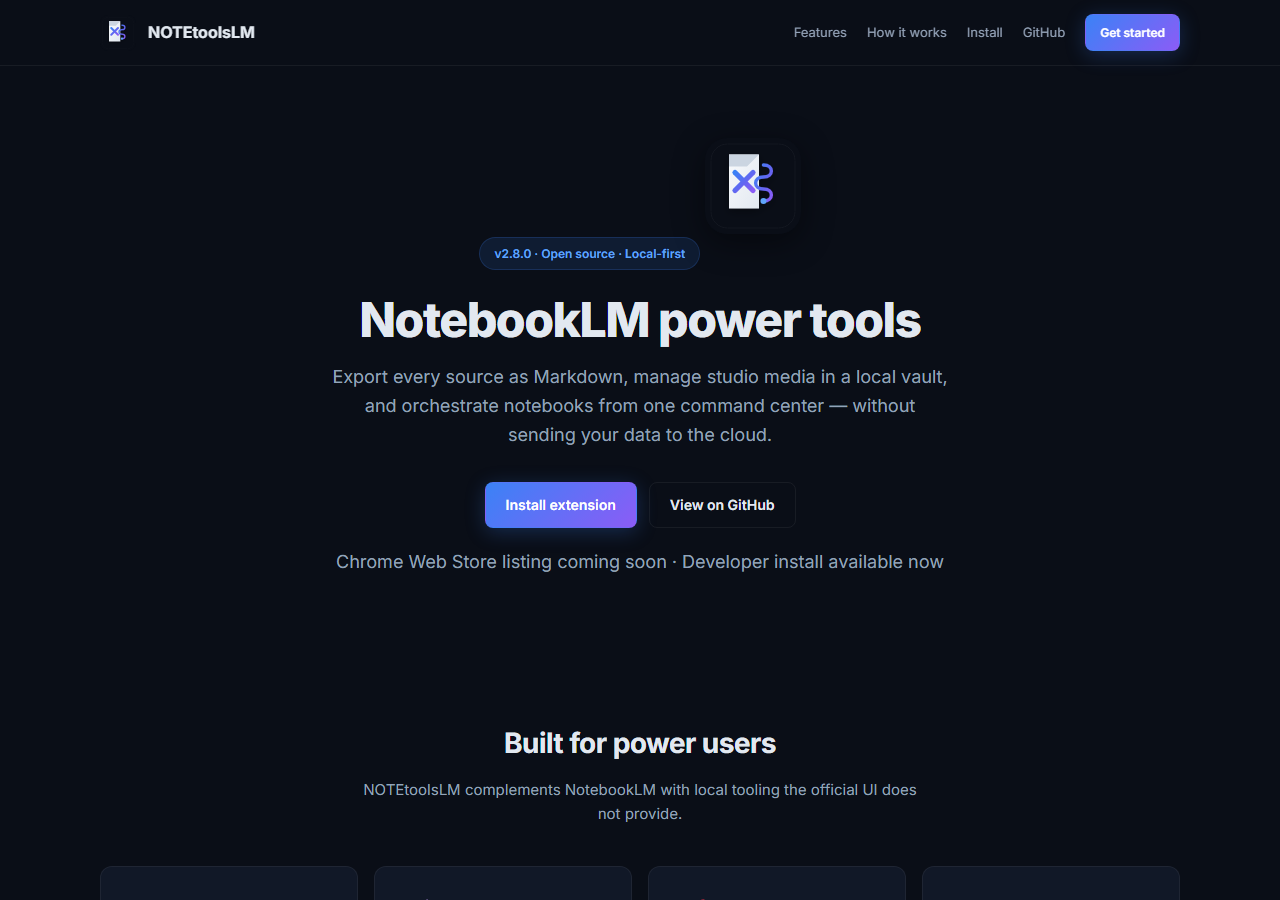
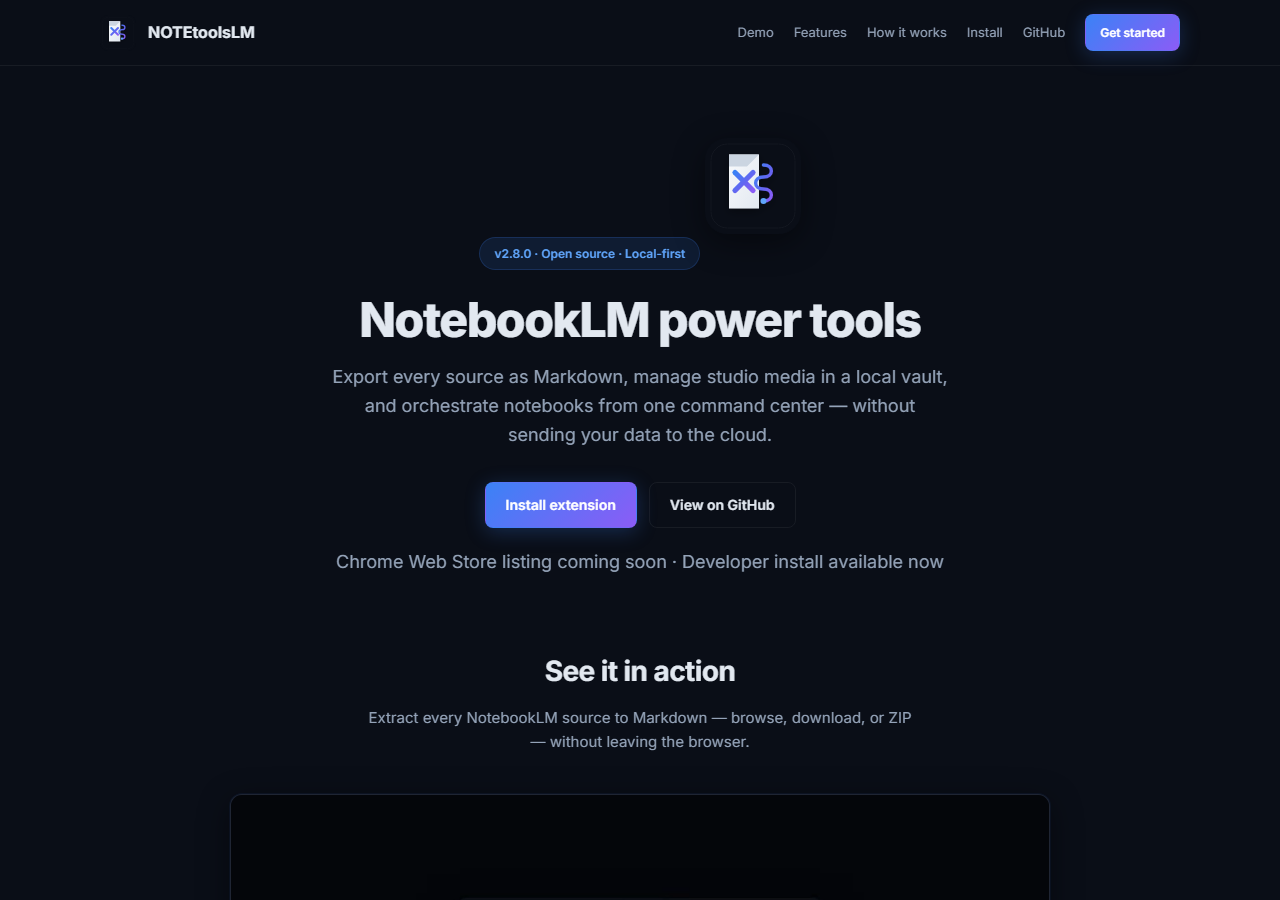
feat(docs): add demo GIF to launch page and capture pipeline
Wire animated Sources export demo (GIF + WebM) into the GitHub Pages hero, refresh launch screenshots, and add npm scripts to regenerate assets via Playwright and ffmpeg.

diff --git a/scripts/capture-demo-gif.js b/scripts/capture-demo-gif.js
@@ -1,0 +1,90 @@
+/**
+ * Record an animated sources-export demo and export docs/assets/demo.gif (+ demo.webm)
+ */
+const fs = require('fs');
+const path = require('path');
+const { execSync } = require('child_process');
+const { chromium } = require('playwright');
+
+const ROOT = path.join(__dirname, '..');
+const DEMO_HTML = path.join(ROOT, 'docs', 'assets', 'screenshots', 'sources-demo.html');
+const ASSETS = path.join(ROOT, 'docs', 'assets');
+const TMP = path.join(ROOT, 'tmp', 'demo-capture');
+const VIEWPORT = { width: 800, height: 520 };
+const FPS = 12;
+const FRAMES = 120;
+const FRAME_MS = 1000 / FPS;
+
+async function captureFrames(page) {
+  const framesDir = path.join(TMP, 'frames');
+  fs.mkdirSync(framesDir, { recursive: true });
+  for (let i = 0; i < FRAMES; i++) {
+    await page.evaluate((tick) => window.__demoTick(tick), i);
+    await page.waitForTimeout(FRAME_MS);
+    const framePath = path.join(framesDir, `frame-${String(i).padStart(4, '0')}.png`);
+    await page.screenshot({ path: framePath, type: 'png' });
+  }
+  return framesDir;
+}
+
+function exportFromFrames(framesDir, outFile, extraArgs) {
+  const pattern = path.join(framesDir, 'frame-%04d.png').replace(/\\/g, '/');
+  const outPath = outFile.replace(/\\/g, '/');
+  execSync(
+    `ffmpeg -y -framerate ${FPS} -i "${pattern}" ${extraArgs} "${outPath}"`,
+    { stdio: 'inherit' }
+  );
+}
+
+function framesToGif(framesDir, outGif) {
+  const palette = path.join(TMP, 'palette.png');
+  const pattern = path.join(framesDir, 'frame-%04d.png').replace(/\\/g, '/');
+  const palettePath = palette.replace(/\\/g, '/');
+  const outPath = outGif.replace(/\\/g, '/');
+
+  execSync(
+    `ffmpeg -y -framerate ${FPS} -i "${pattern}" -vf "fps=${FPS},scale=800:-1:flags=lanczos,palettegen=stats_mode=diff" "${palettePath}"`,
+    { stdio: 'inherit' }
+  );
+  execSync(
+    `ffmpeg -y -framerate ${FPS} -i "${pattern}" -i "${palettePath}" -lavfi "fps=${FPS},scale=800:-1:flags=lanczos[x];[x][1:v]paletteuse=dither=bayer:bayer_scale=3" -loop 0 "${outPath}"`,
+    { stdio: 'inherit' }
+  );
+}
+
+async function main() {
+  fs.mkdirSync(ASSETS, { recursive: true });
+  fs.rmSync(TMP, { recursive: true, force: true });
+  fs.mkdirSync(TMP, { recursive: true });
+
+  const browser = await chromium.launch();
+  const context = await browser.newContext({ viewport: VIEWPORT });
+  const page = await context.newPage();
+  const url = `file:///${DEMO_HTML.replace(/\\/g, '/')}`;
+  await page.goto(url, { waitUntil: 'networkidle' });
+  await page.waitForTimeout(300);
+
+  const framesDir = await captureFrames(page);
+  await browser.close();
+
+  const gifPath = path.join(ASSETS, 'demo.gif');
+  framesToGif(framesDir, gifPath);
+  const stat = fs.statSync(gifPath);
+  console.log('wrote', gifPath, `(${(stat.size / 1024 / 1024).toFixed(2)} MB)`);
+
+  const webmPath = path.join(ASSETS, 'demo.webm');
+  exportFromFrames(
+    framesDir,
+    webmPath,
+    '-c:v libvpx-vp9 -pix_fmt yuv420p -crf 32 -b:v 0 -an'
+  );
+  const webmStat = fs.statSync(webmPath);
+  console.log('wrote', webmPath, `(${(webmStat.size / 1024 / 1024).toFixed(2)} MB)`);
+
+  fs.rmSync(TMP, { recursive: true, force: true });
+}
+
+main().catch((err) => {
+  console.error(err);
+  process.exit(1);
+});

diff --git a/docs/assets/screenshots/sources-demo.html b/docs/assets/screenshots/sources-demo.html
@@ -4,41 +4,99 @@
 <meta charset="UTF-8">
 <link href="https://fonts.googleapis.com/css2?family=Inter:wght@400;600;700&display=swap" rel="stylesheet">
 <style>
-body{margin:0;background:#0a0e17;font-family:Inter,system-ui,sans-serif;color:#e2e8f0;display:flex;justify-content:center;padding:40px}
+body{margin:0;background:#0a0e17;font-family:Inter,system-ui,sans-serif;color:#e2e8f0;display:flex;justify-content:center;align-items:center;min-height:100vh}
 .panel{width:360px;background:#111827;border:1px solid rgba(255,255,255,.08);border-radius:12px;overflow:hidden;box-shadow:0 8px 32px rgba(0,0,0,.5)}
 .hdr{display:flex;justify-content:space-between;align-items:center;padding:12px;border-bottom:1px solid rgba(255,255,255,.06);background:#0f172a}
 .brand{font-weight:700;font-size:13px}
 .tabs{display:flex;gap:4px;padding:8px 12px 0}
-.tab{flex:1;padding:7px;border:1px solid rgba(255,255,255,.06);border-bottom:none;border-radius:8px 8px 0 0;background:#0a0e17;color:#64748b;font-size:11px;font-weight:600;text-align:center}
+.tab{flex:1;padding:7px;border:1px solid rgba(255,255,255,.06);border-bottom:none;border-radius:8px 8px 0 0;background:#0a0e17;color:#64748b;font-size:11px;font-weight:600;text-align:center;transition:background .2s,color .2s}
 .tab.on{background:#111827;color:#e2e8f0}
 .actions{display:flex;gap:8px;padding:12px}
 .btn{padding:8px 12px;border-radius:8px;border:none;font-size:11px;font-weight:600;cursor:default}
 .btn-p{background:#3b82f6;color:#fff}
 .btn-g{background:transparent;color:#94a3b8;border:1px solid rgba(255,255,255,.08)}
-.card{margin:0 12px 8px;padding:10px 12px;border-radius:8px;border:1px solid rgba(255,255,255,.06);background:#1a2236}
+.card{margin:0 12px 8px;padding:10px 12px;border-radius:8px;border:1px solid rgba(255,255,255,.06);background:#1a2236;opacity:1;transition:opacity .3s}
+.card.dim{opacity:.45}
 .card h4{margin:0 0 4px;font-size:12px}
 .card p{margin:0;font-size:10px;color:#64748b}
-.overlay{position:fixed;inset:0;background:rgba(0,0,0,.55);display:flex;align-items:center;justify-content:center}
+.overlay{position:fixed;inset:0;background:rgba(0,0,0,.55);display:flex;align-items:center;justify-content:center;opacity:0;pointer-events:none;transition:opacity .35s}
+.overlay.show{opacity:1}
 .box{background:#0f172a;border:1px solid rgba(255,255,255,.1);border-radius:12px;padding:24px;width:280px;text-align:center}
 .bar{height:6px;background:#1e293b;border-radius:3px;margin:16px 0;overflow:hidden}
-.fill{height:100%;width:62%;background:#3b82f6;border-radius:3px}
+.fill{height:100%;width:0;background:linear-gradient(90deg,#3b82f6,#8b5cf6);border-radius:3px;transition:width .12s linear}
+.status{font-size:12px;color:#94a3b8;min-height:18px}
+.done{color:#10b981;font-weight:600}
 </style>
 </head>
 <body>
 <div class="panel">
   <div class="hdr"><span class="brand">⚡ NOTEtoolsLM</span><span style="font-size:10px;color:#64748b">SDK connected</span></div>
-  <div class="tabs"><div class="tab">Artifacts</div><div class="tab on">Sources</div></div>
-  <div class="actions"><button class="btn btn-p">Extract All Sources</button><button class="btn btn-g">Clear</button></div>
-  <div class="card"><h4>Q2 Research Notebook</h4><p>12 sources · 2h ago</p></div>
-  <div class="card"><h4>Investor Memo Pack</h4><p>8 sources · 1d ago</p></div>
-  <div class="card"><h4>Competitive Landscape</h4><p>23 sources · 3d ago · 1 error</p></div>
+  <div class="tabs"><div class="tab" id="tab-artifacts">Artifacts</div><div class="tab on" id="tab-sources">Sources</div></div>
+  <div class="actions"><button class="btn btn-p" id="extract-btn">Extract All Sources</button><button class="btn btn-g">Clear</button></div>
+  <div class="card" id="card-0"><h4>Q2 Research Notebook</h4><p>12 sources · 2h ago</p></div>
+  <div class="card dim" id="card-1"><h4>Investor Memo Pack</h4><p>8 sources · 1d ago</p></div>
+  <div class="card dim" id="card-2"><h4>Competitive Landscape</h4><p>23 sources · 3d ago</p></div>
 </div>
-<div class="overlay">
+<div class="overlay" id="overlay">
   <div class="box">
-    <h3 style="margin:0 0 8px;font-size:15px">Extracting NotebookLM Sources</h3>
-    <div class="bar"><div class="fill"></div></div>
-    <p style="margin:0;font-size:12px;color:#94a3b8">Extracting 5/12: Market sizing report</p>
+    <h3 style="margin:0 0 8px;font-size:15px" id="overlay-title">Extracting NotebookLM Sources</h3>
+    <div class="bar"><div class="fill" id="fill"></div></div>
+    <p class="status" id="status">Preparing extraction…</p>
   </div>
 </div>
+<script>
+const SOURCES = [
+  'Market sizing report',
+  'Competitive landscape PDF',
+  'Investor memo draft',
+  'User interview notes',
+  'Product roadmap Q2',
+  'Pricing analysis',
+  'GTM strategy deck',
+  'Technical architecture',
+  'Customer feedback summary',
+  'Regulatory overview',
+  'Partnership brief',
+  'Executive summary',
+];
+const fill = document.getElementById('fill');
+const status = document.getElementById('status');
+const overlay = document.getElementById('overlay');
+const title = document.getElementById('overlay-title');
+let frame = 0;
+
+function setProgress(pct, text, done) {
+  fill.style.width = pct + '%';
+  status.textContent = text;
+  status.className = done ? 'status done' : 'status';
+}
+
+window.__demoTick = function(tick) {
+  const phase = tick % 120;
+  if (phase < 8) {
+    overlay.classList.remove('show');
+    setProgress(0, 'Preparing extraction…', false);
+    title.textContent = 'Extracting NotebookLM Sources';
+    return;
+  }
+  overlay.classList.add('show');
+  const progressPhase = phase - 8;
+  const total = 100;
+  const pct = Math.min(100, Math.round((progressPhase / total) * 100));
+  const idx = Math.min(SOURCES.length - 1, Math.floor((progressPhase / total) * SOURCES.length));
+  if (pct >= 100) {
+    setProgress(100, '✓ 12 sources exported to Markdown', true);
+    title.textContent = 'Export complete';
+  } else {
+    setProgress(pct, `Extracting ${idx + 1}/${SOURCES.length}: ${SOURCES[idx]}`, false);
+  }
+};
+
+window.__demoReset = function() {
+  overlay.classList.remove('show');
+  setProgress(0, 'Preparing extraction…', false);
+  title.textContent = 'Extracting NotebookLM Sources';
+};
+</script>
 </body>
 </html>

diff --git a/docs/style.css b/docs/style.css
@@ -139,6 +139,35 @@ img { max-width: 100%; height: auto; }
 .hero-cta { display: flex; flex-wrap: wrap; gap: 12px; justify-content: center; margin-bottom: 20px; }
 .hero-note { font-size: 12px; color: var(--fg3); }
 
+/* Demo */
+.demo-section {
+  padding: 0 0 56px;
+  margin-top: -16px;
+}
+.demo-frame {
+  max-width: 820px;
+  margin: 0 auto;
+  border-radius: var(--radius);
+  border: 1px solid var(--border);
+  background: var(--bg2);
+  box-shadow: var(--shadow), 0 0 0 1px rgba(59, 130, 246, 0.08);
+  overflow: hidden;
+}
+.demo-frame .demo-media {
+  display: block;
+  width: 100%;
+  height: auto;
+}
+.demo-frame .demo-fallback { display: none; }
+.demo-frame.no-video .demo-fallback { display: block; }
+.demo-frame.no-video video { display: none; }
+.demo-caption {
+  text-align: center;
+  font-size: 12px;
+  color: var(--fg3);
+  margin-top: 14px;
+}
+
 /* Sections */
 section { padding: 56px 0; }
 .section-title {

diff --git a/docs/index.html b/docs/index.html
@@ -25,6 +25,7 @@
       NOTEtoolsLM
     </a>
     <div class="nav-links">
+      <a href="#demo">Demo</a>
       <a href="#features">Features</a>
       <a href="#how">How it works</a>
       <a href="install.html">Install</a>
@@ -45,6 +46,20 @@
   </div>
   <p class="hero-note">Chrome Web Store listing coming soon · Developer install available now</p>
 </header>
+
+<section id="demo" class="demo-section">
+  <div class="container">
+    <h2 class="section-title">See it in action</h2>
+    <p class="section-sub">Extract every NotebookLM source to Markdown — browse, download, or ZIP — without leaving the browser.</p>
+    <div class="demo-frame">
+      <video class="demo-media" autoplay loop muted playsinline width="800" height="520" poster="assets/demo.gif">
+        <source src="assets/demo.webm" type="video/webm">
+      </video>
+      <img class="demo-media demo-fallback" src="assets/demo.gif" alt="NOTEtoolsLM Sources tab extracting notebook sources to Markdown with live progress" width="800" height="520" loading="eager">
+    </div>
+    <p class="demo-caption">Sources export · side panel · local vault · all user-triggered</p>
+  </div>
+</section>
 
 <section id="features">
   <div class="container">
@@ -151,5 +166,17 @@
   <p style="margin-top:8px;">Not affiliated with Google or NotebookLM.</p>
 </footer>
 
+<script>
+(function () {
+  var frame = document.querySelector('.demo-frame');
+  var video = frame && frame.querySelector('video');
+  if (!frame || !video) return;
+  if (!video.canPlayType('video/webm')) {
+    frame.classList.add('no-video');
+    return;
+  }
+  video.addEventListener('error', function () { frame.classList.add('no-video'); });
+})();
+</script>
 </body>
 </html>

diff --git a/scripts/capture-launch-screenshots.js b/scripts/capture-launch-screenshots.js
@@ -30,6 +30,15 @@ async function main() {
     console.log('wrote', outPath);
   }
 
+  const demoUrl = `file:///${path.join(ROOT, 'docs', 'assets', 'screenshots', 'sources-demo.html').replace(/\\/g, '/')}`;
+  await page.setViewportSize({ width: 800, height: 520 });
+  await page.goto(demoUrl, { waitUntil: 'networkidle' });
+  await page.evaluate((tick) => window.__demoTick(tick), 55);
+  await page.waitForTimeout(300);
+  const sourcesPath = path.join(OUT, '04-sources-export.png');
+  await page.screenshot({ path: sourcesPath, fullPage: false });
+  console.log('wrote', sourcesPath);
+
   await browser.close();
 }
 